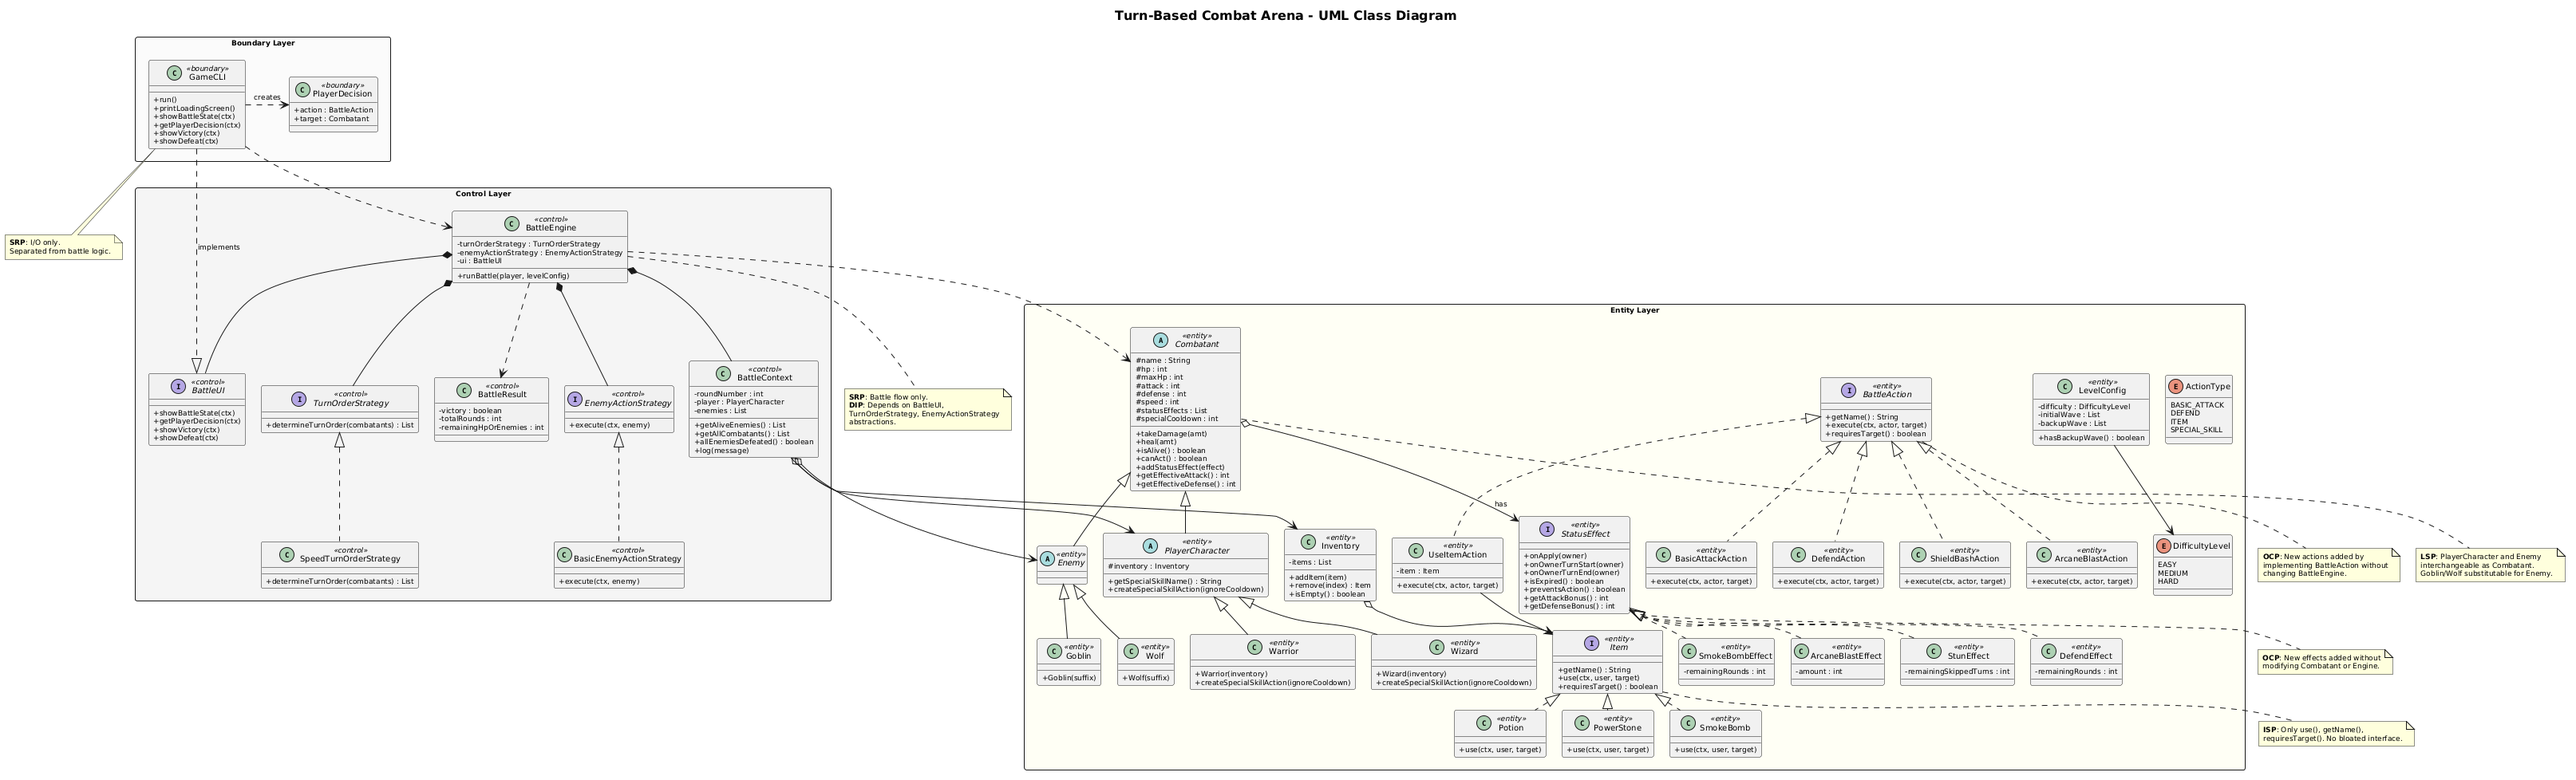
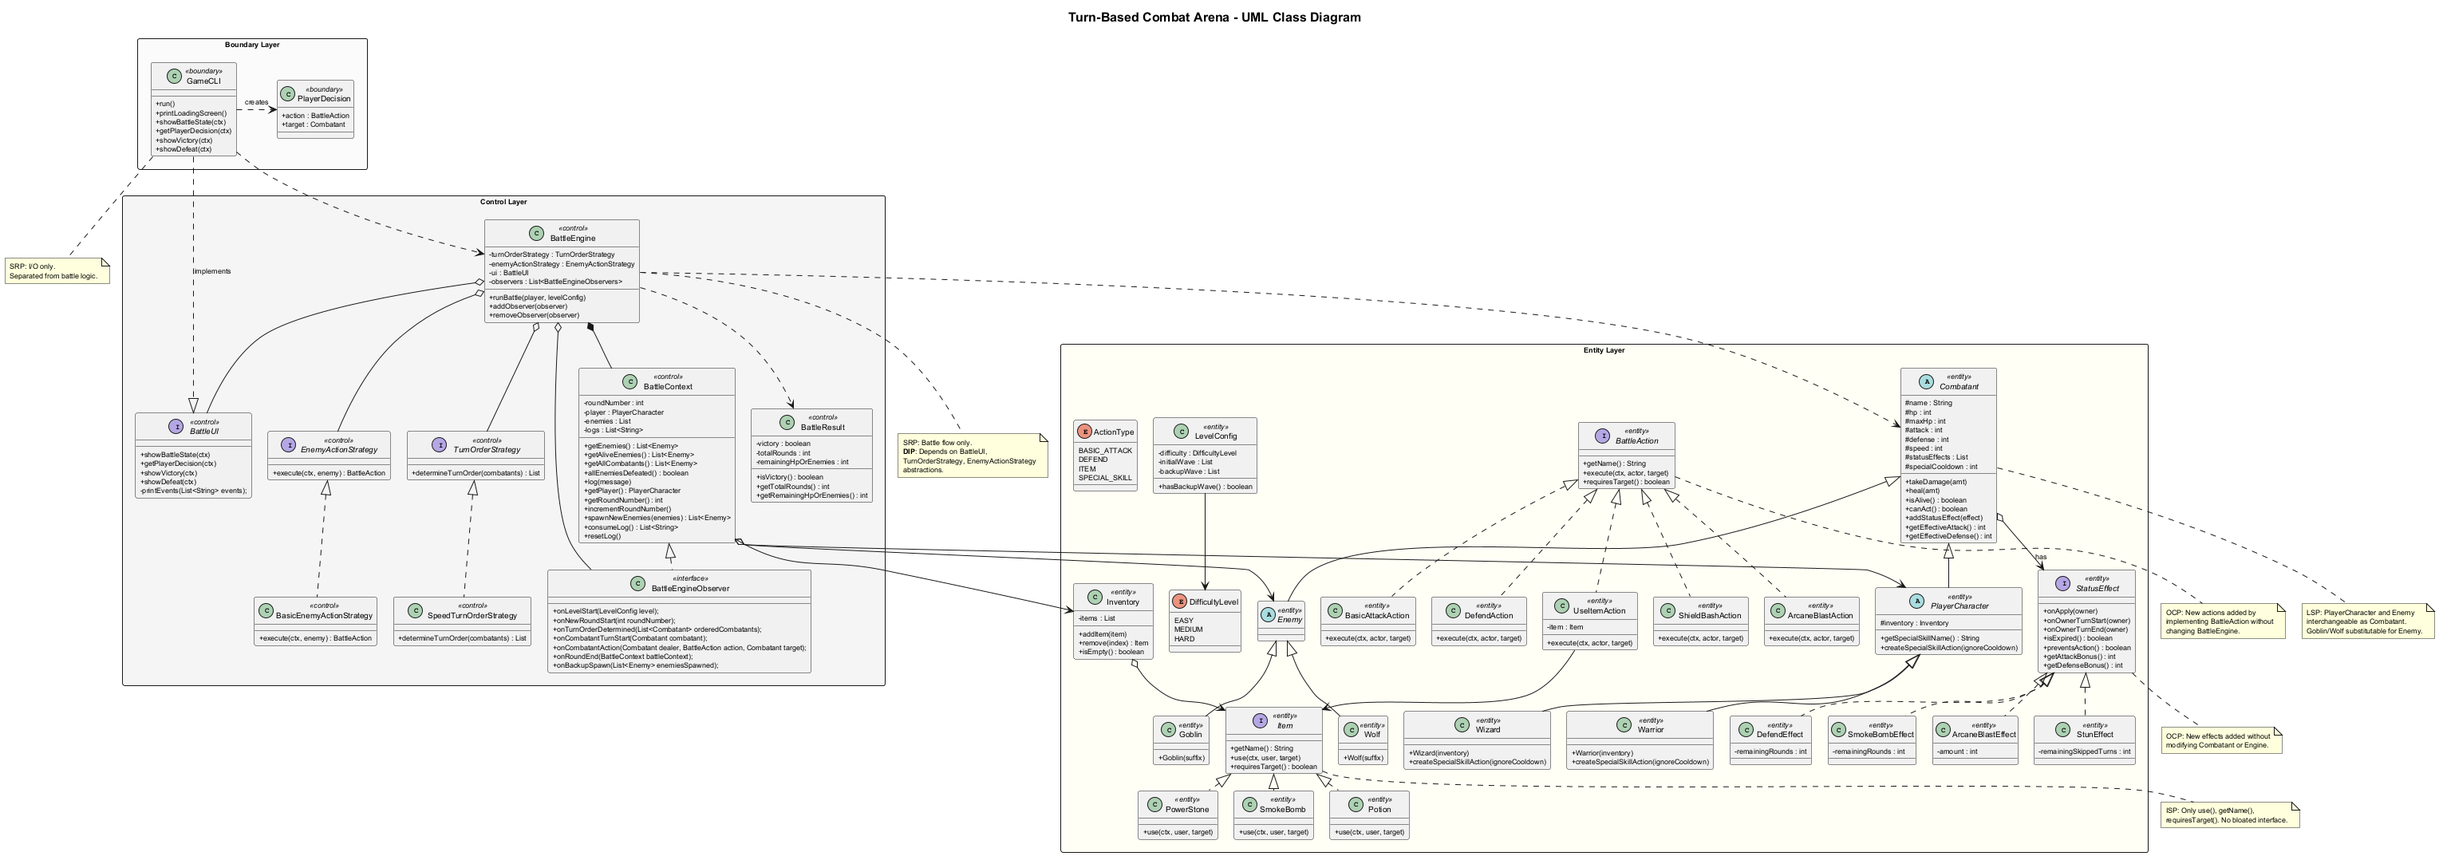
Update ClassDiagram and renaming method names
Updated ClassDiagram for Control/Engine Layer
Renamed CamelCase methods in BattleEngine to camelCase

diff --git a/src/engine/BattleEngine.java b/src/engine/BattleEngine.java
@@ -32,7 +32,7 @@ public class BattleEngine {
 		boolean victory = false;
 		boolean gameOver = false;
 		BattleContext battleContext = new BattleContext(player, levelConfig.getAndProgressWave());
-		AddObserver(battleContext);
+		addObserver(battleContext);
 		onLevelStart(levelConfig);
 		
 		while(!gameOver) {
@@ -104,11 +104,11 @@ public class BattleEngine {
 		return battleResult;
 	}
 	
-	public void AddObserver(BattleEngineObserver observer) {
+	public void addObserver(BattleEngineObserver observer) {
 		observers.add(observer);
 	}
 	
-	public void RemoveObserver(BattleEngineObserver observer) {
+	public void removeObserver(BattleEngineObserver observer) {
 		observers.remove(observer);
 	}
 	
